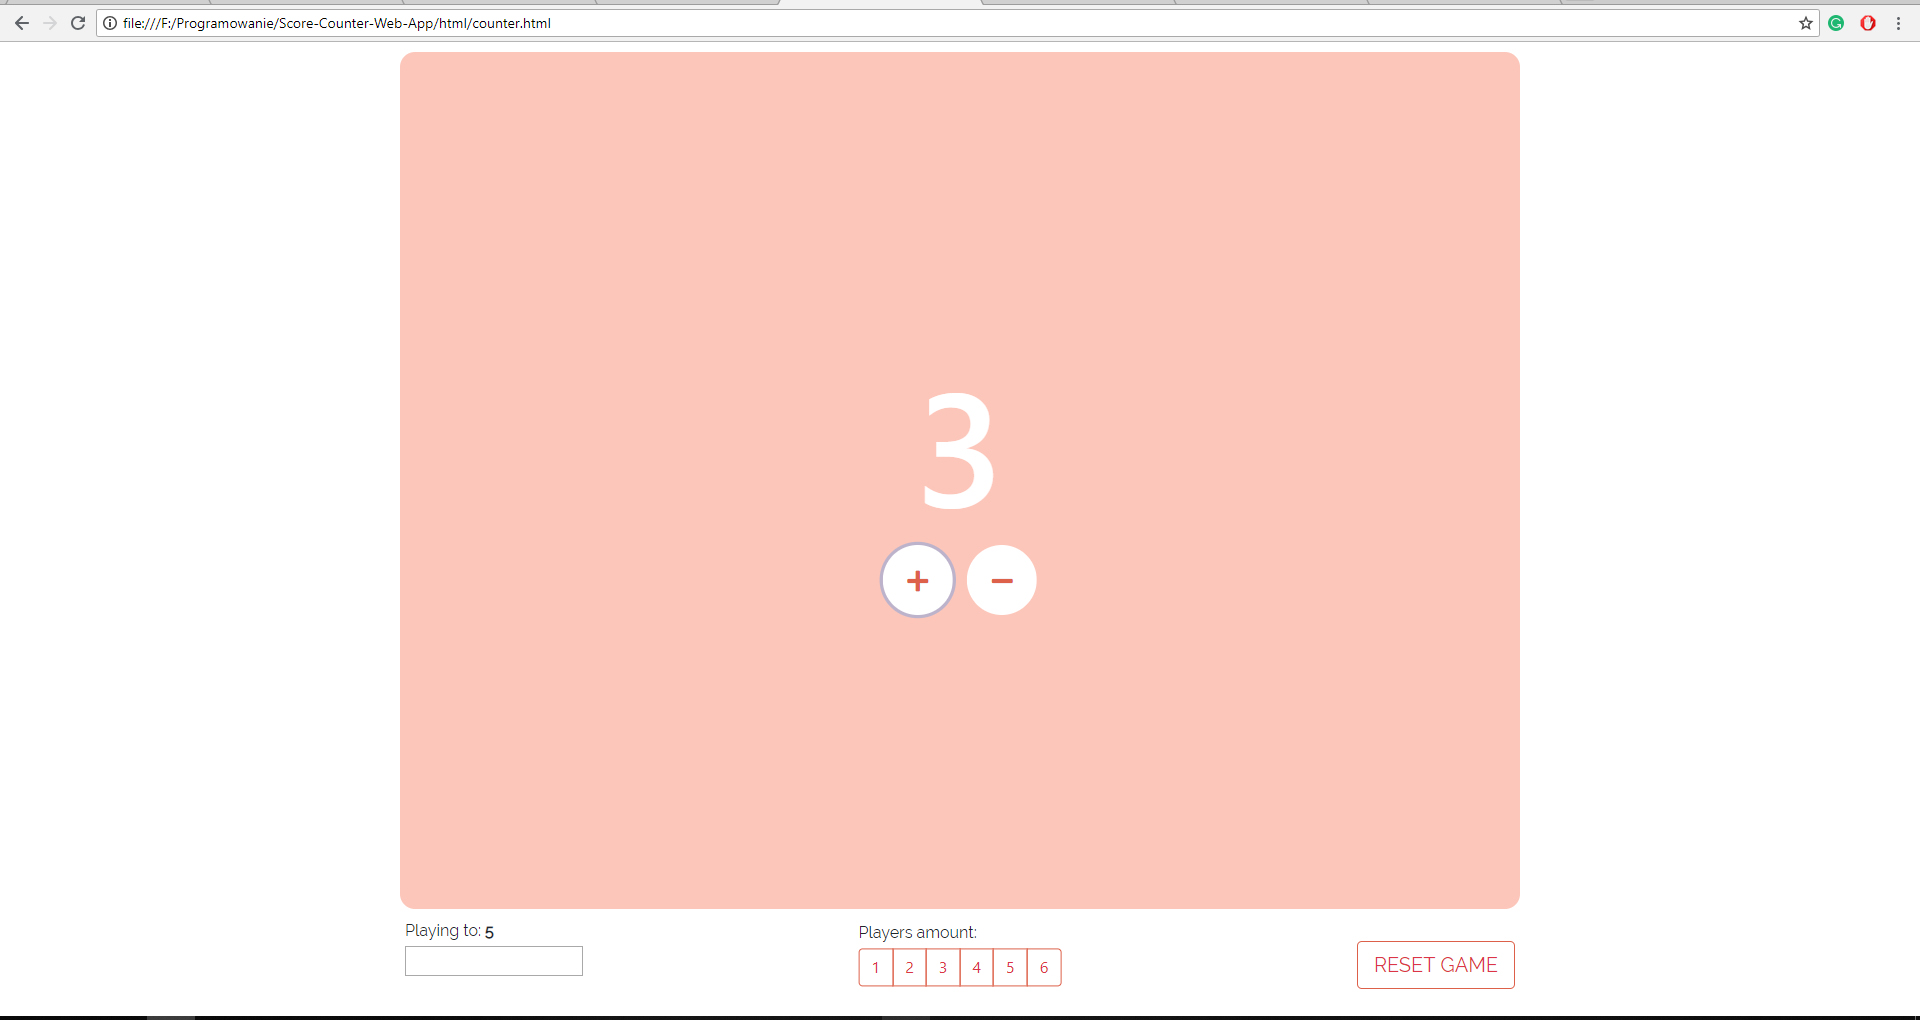
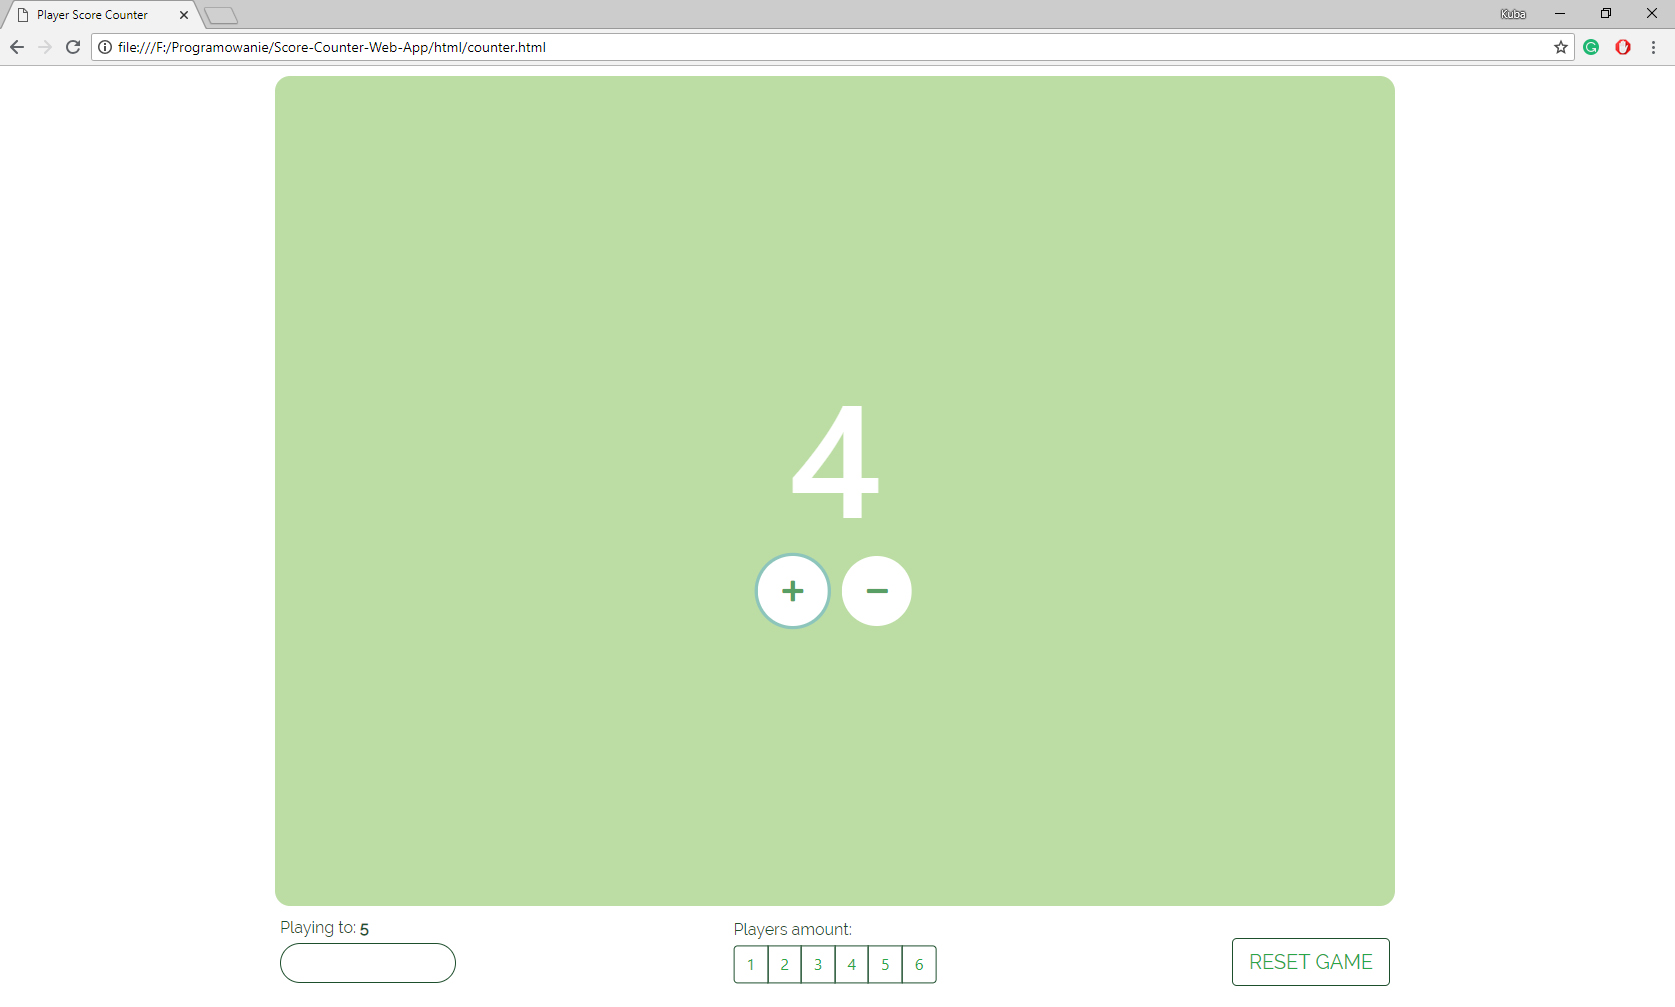
change app style to green / update presentation
This reverts commit 5be5577e6024497c6942ae8720a3e1f76cd52987.

diff --git a/html/counter.html b/html/counter.html
@@ -84,18 +84,18 @@
           <div class="centered">
             <p id="pAmountText">Players amount:</p>
             <div class="btn-group" role="group" aria-label="playerChoice">
-              <button type="button" class="btn btn-outline-danger" onclick="hidingColumn(1)">1</button>
-              <button type="button" class="btn btn-outline-danger" onclick="hidingColumn(2)">2</button>
-              <button type="button" class="btn btn-outline-danger" onclick="hidingColumn(3)">3</button>
-              <button type="button" class="btn btn-outline-danger" onclick="hidingColumn(4)">4</button>
-              <button type="button" class="btn btn-outline-danger" onclick="hidingColumn(5)">5</button>
-              <button type="button" class="btn btn-outline-danger" onclick="hidingColumn(6)">6</button>
+              <button type="button" class="btn btn-outline-success" onclick="hidingColumn(1)">1</button>
+              <button type="button" class="btn btn-outline-success" onclick="hidingColumn(2)">2</button>
+              <button type="button" class="btn btn-outline-success" onclick="hidingColumn(3)">3</button>
+              <button type="button" class="btn btn-outline-success" onclick="hidingColumn(4)">4</button>
+              <button type="button" class="btn btn-outline-success" onclick="hidingColumn(5)">5</button>
+              <button type="button" class="btn btn-outline-success" onclick="hidingColumn(6)">6</button>
             </div>
           </div>
         </div>
         <div class="col-sm">
           <div class="justify-to-right">
-            <button type="button" class="btn btn-outline-danger btn-lg" id="resetScore">RESET GAME</button>
+            <button type="button" class="btn btn-outline-success btn-lg" id="resetScore">RESET GAME</button>
           </div>
         </div>
       </div>

diff --git a/css/counter_style.css b/css/counter_style.css
@@ -1,9 +1,10 @@
 html, body{
   height: 100%;
+  background-color: #FFFFFF;
 }
 
 .winner{
-  color: #DD614A;
+  color: #1E4F2D;
   font-size: 1.3em;
 }
 
@@ -17,12 +18,12 @@ html, body{
   height: 90%;
 }
 
-.cont-small{
+.container.cont-small{
   height: 10%;
 }
 
 .col-player{
-  background: #FCC6BA;
+  background: #BCDDA4;
   border: 10px solid white;
   height:100%;
   border-radius: 25px;
@@ -52,10 +53,17 @@ html, body{
 p{
   margin-bottom: 0.2rem;
   font-family: 'Raleway', sans-serif;
+  color: #1E4F2D;
 }
 
 #winNumber{
   font-weight: 700;
+}
+
+#winningCondition{
+  border: 1px solid #1E4F2D;
+  border-radius: 45px;
+  height: 40px;
 }
 
 .btn-circle.btn-xl {
@@ -67,9 +75,9 @@ p{
   border-radius: 35px;
   margin: 0px 5px 0px 5px;
   background: white;
-  color: #DD614A;
+  color: #589E64;
   }
 
-.btn-outline-danger{
-  border: 1px solid #DD614A;
+.btn-outline-success{
+  border: 1px solid #1E4F2D;
 }
